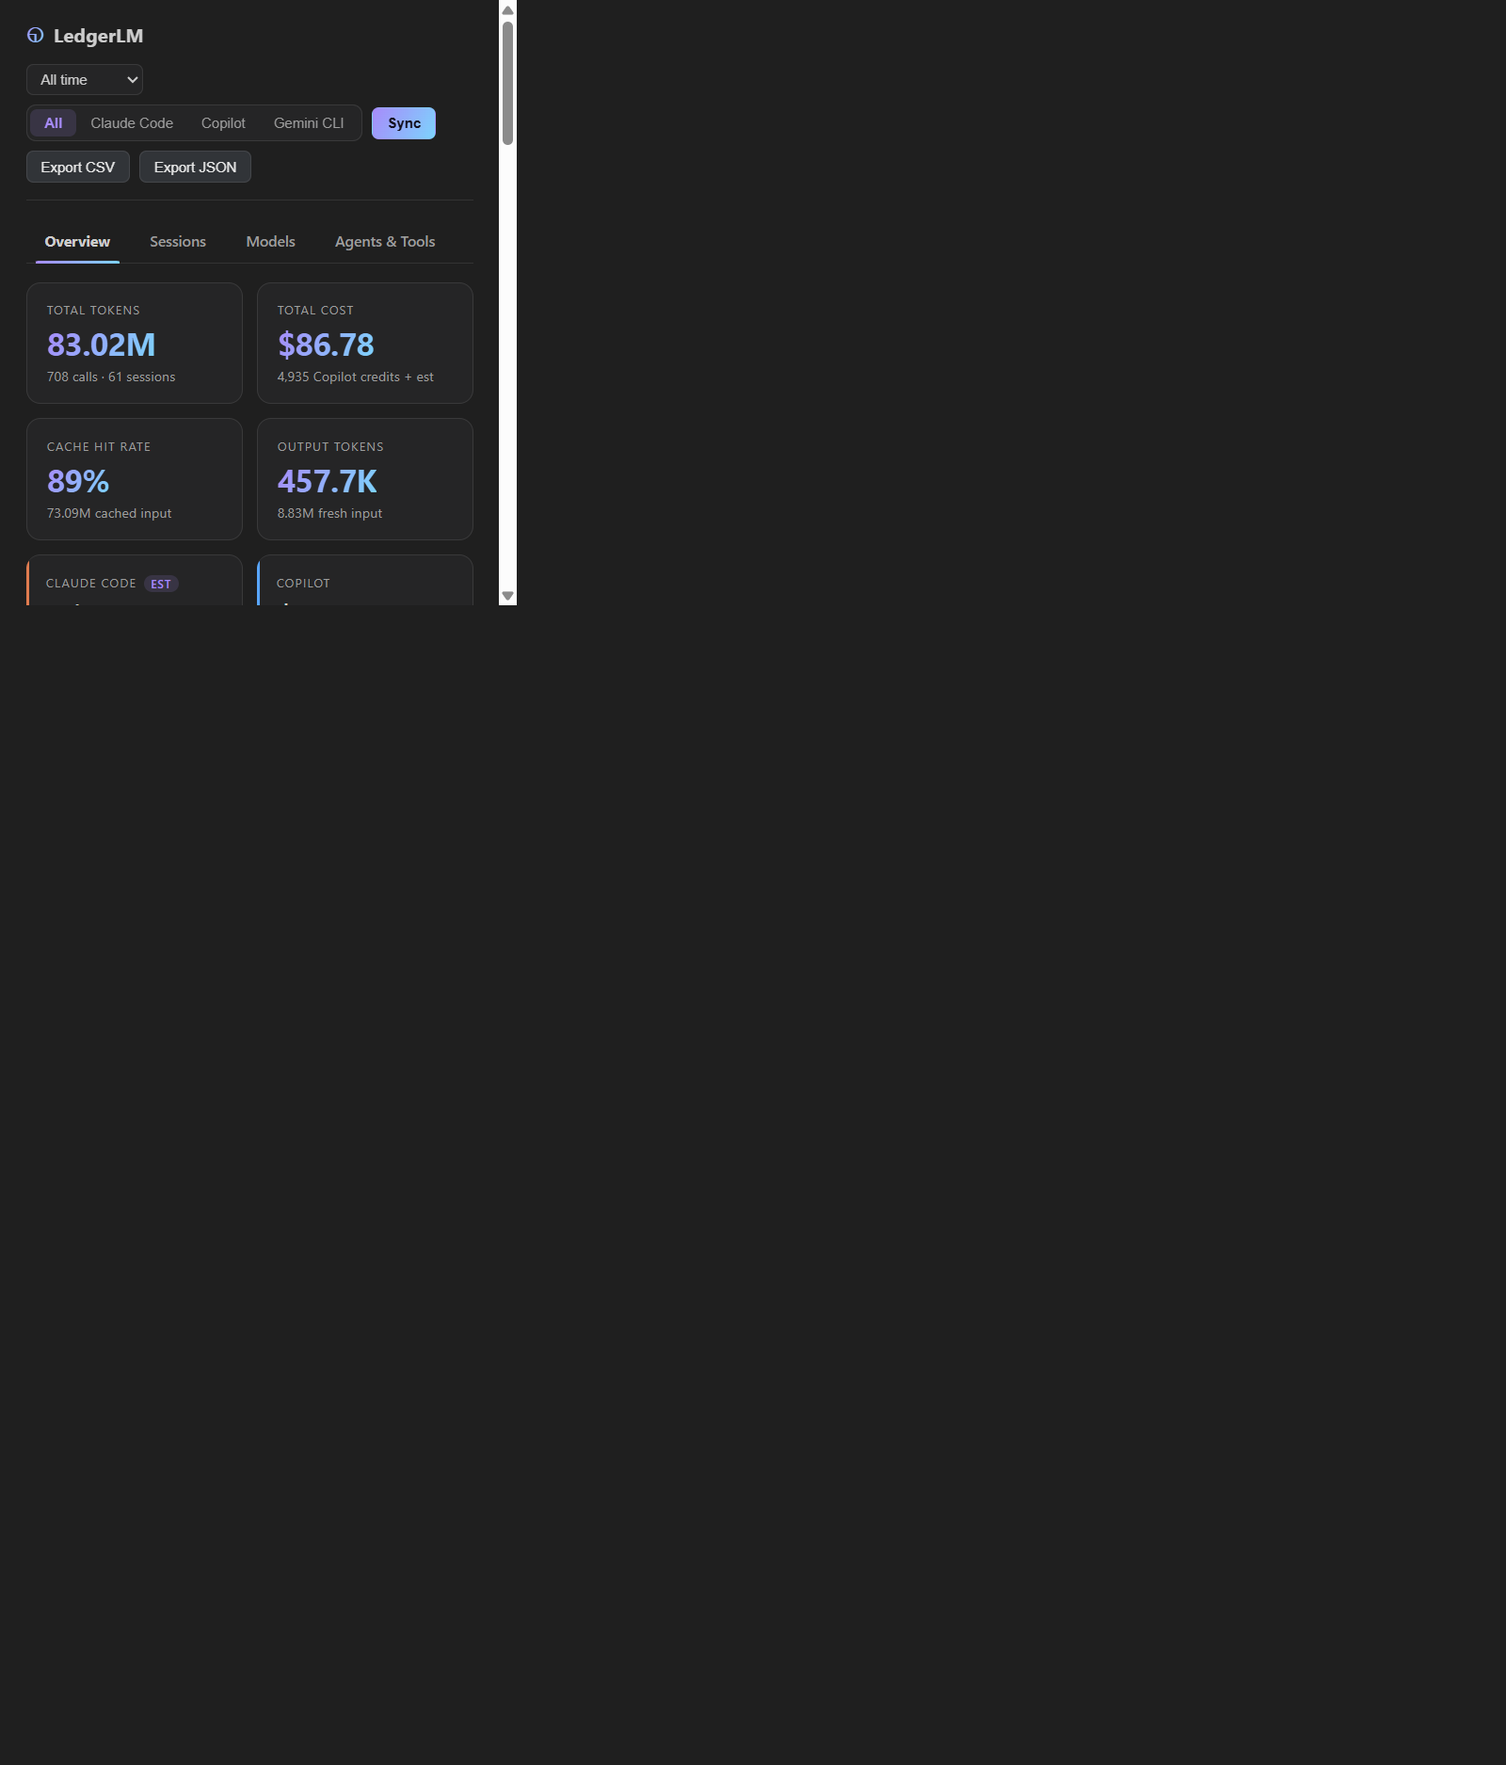
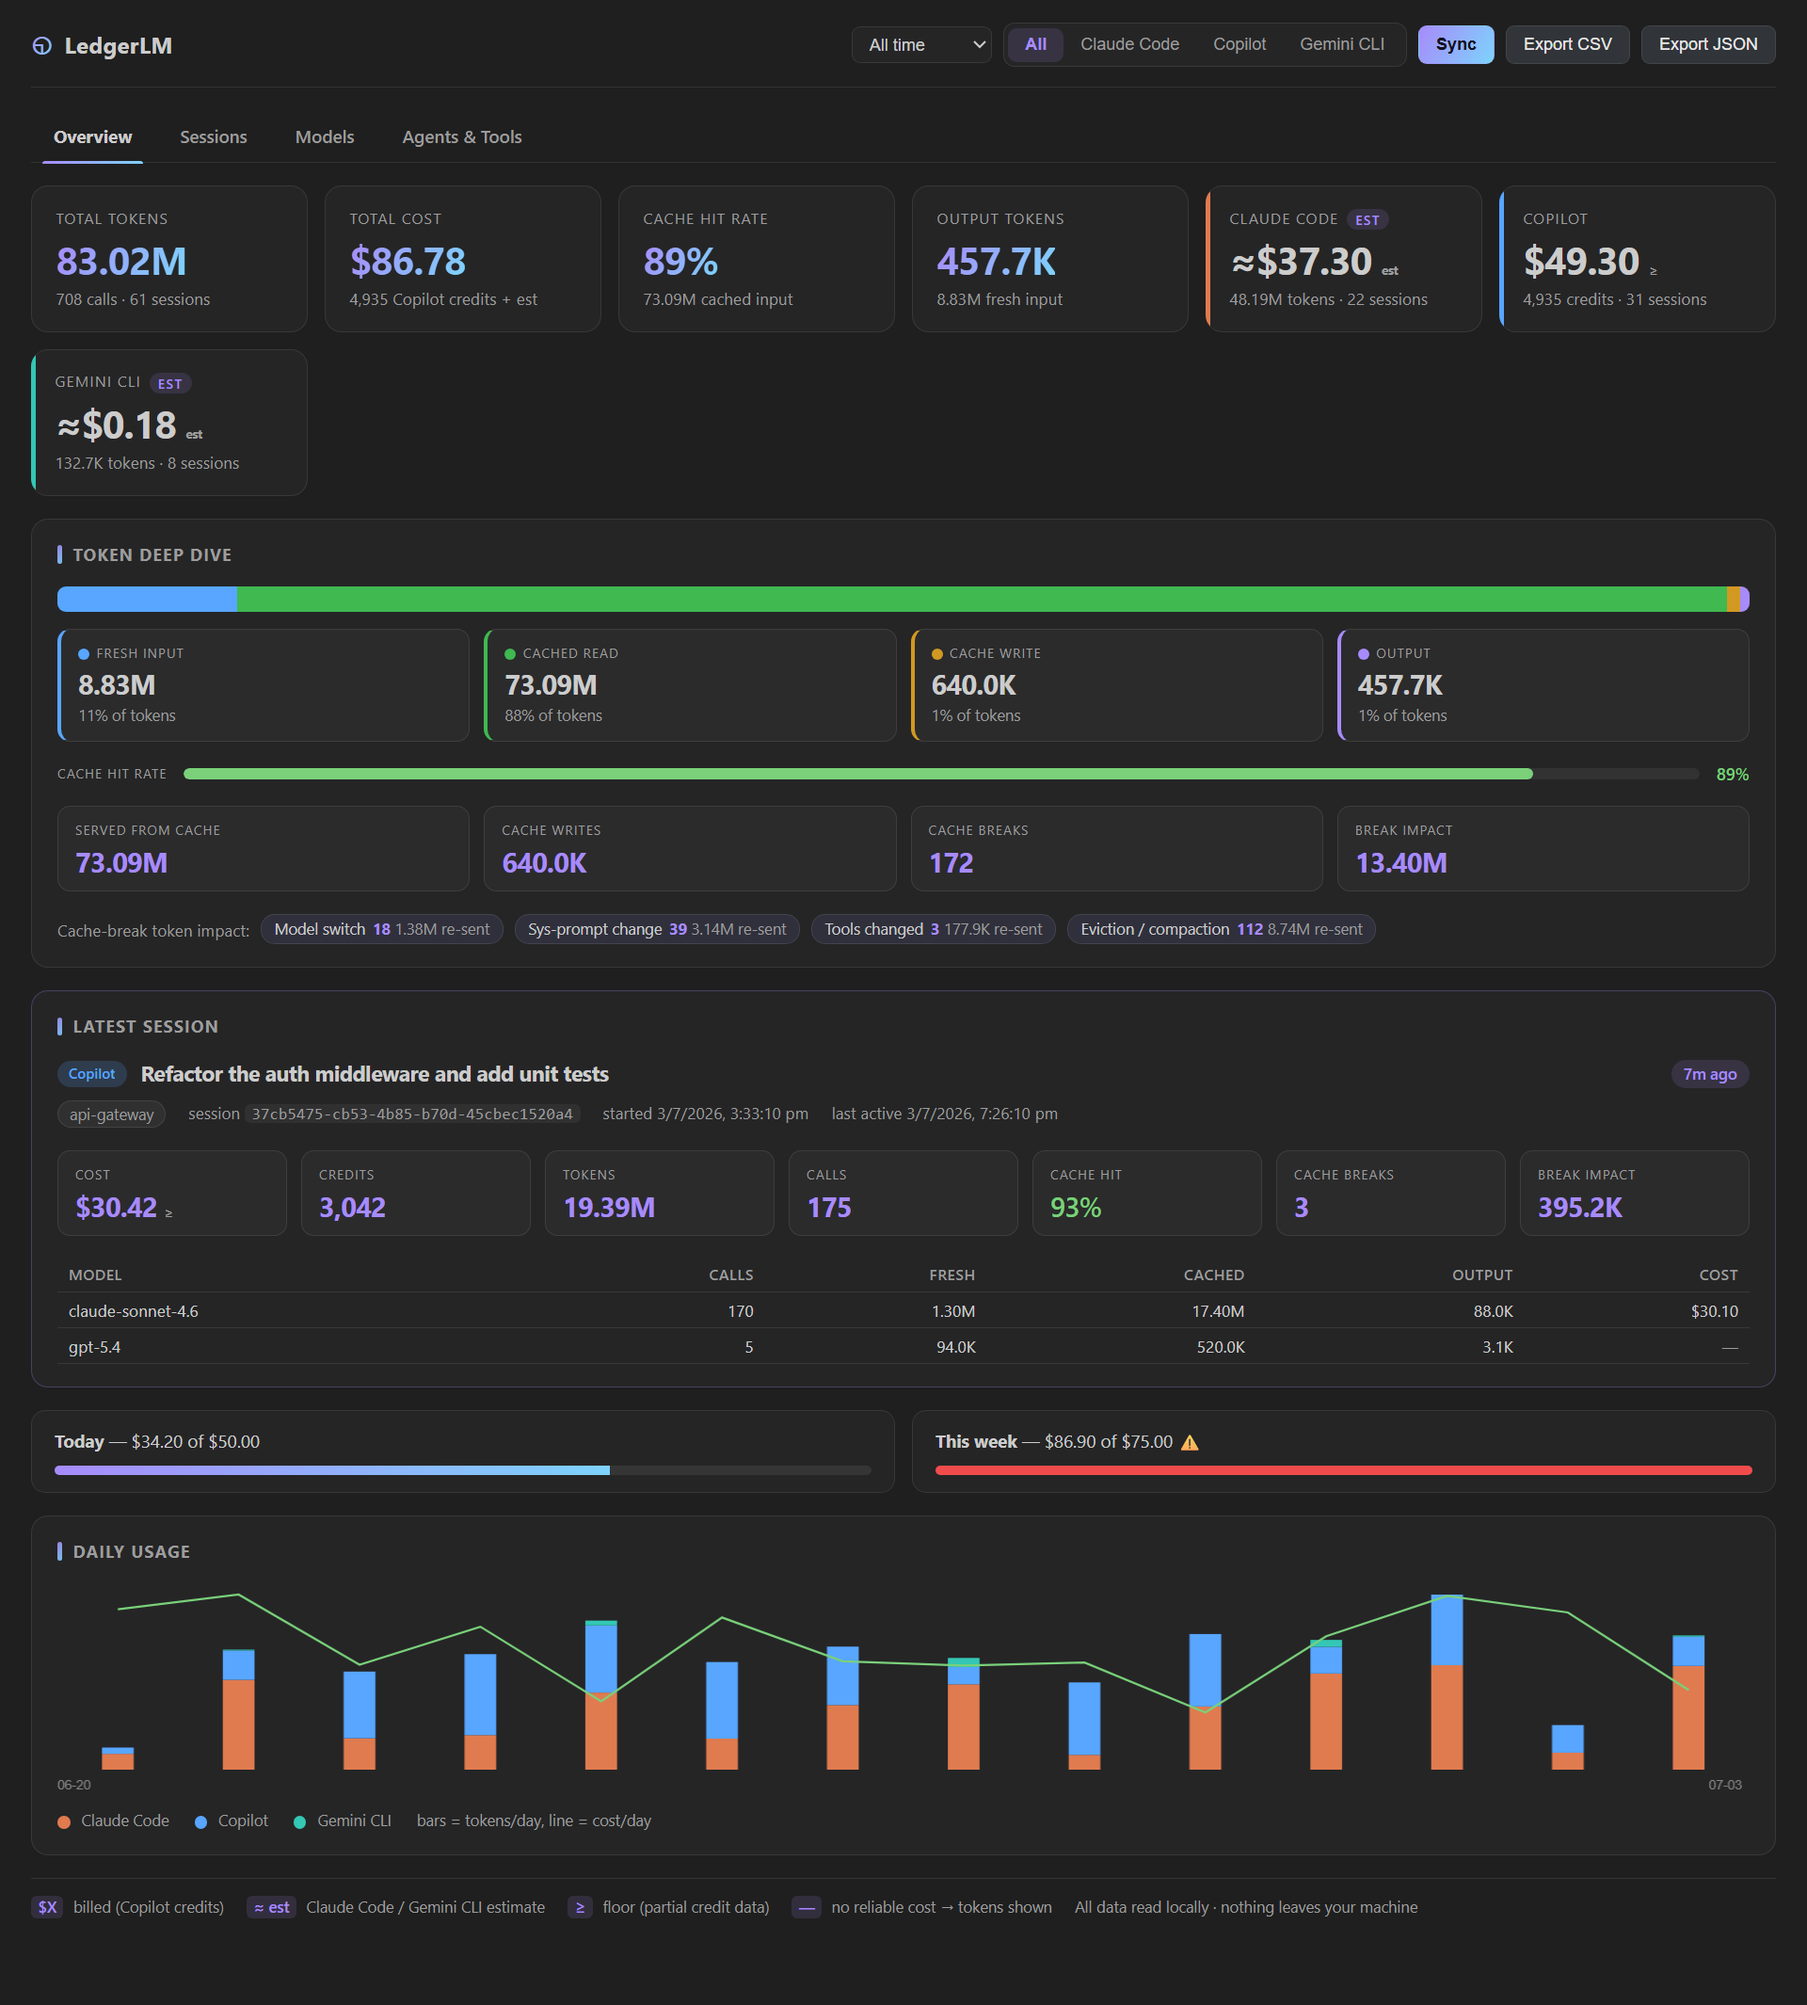
docs: proper full-width screenshots via headless capture; harness tab param

diff --git a/scripts/ui-preview/preview.html b/scripts/ui-preview/preview.html
@@ -273,5 +273,15 @@
   </footer>
 
   <script src="../../src/ui/app.js"></script>
+  <script>
+    // Dev harness: preselect a tab via ?tab=agents|sessions|models (for headless screenshots).
+    setTimeout(() => {
+      const m = /[?&]tab=(\w+)/.exec(location.search);
+      if (m) {
+        const btn = document.querySelector('#tabs button[data-tab="' + m[1] + '"]');
+        if (btn) btn.click();
+      }
+    }, 400);
+  </script>
 </body>
 </html>
